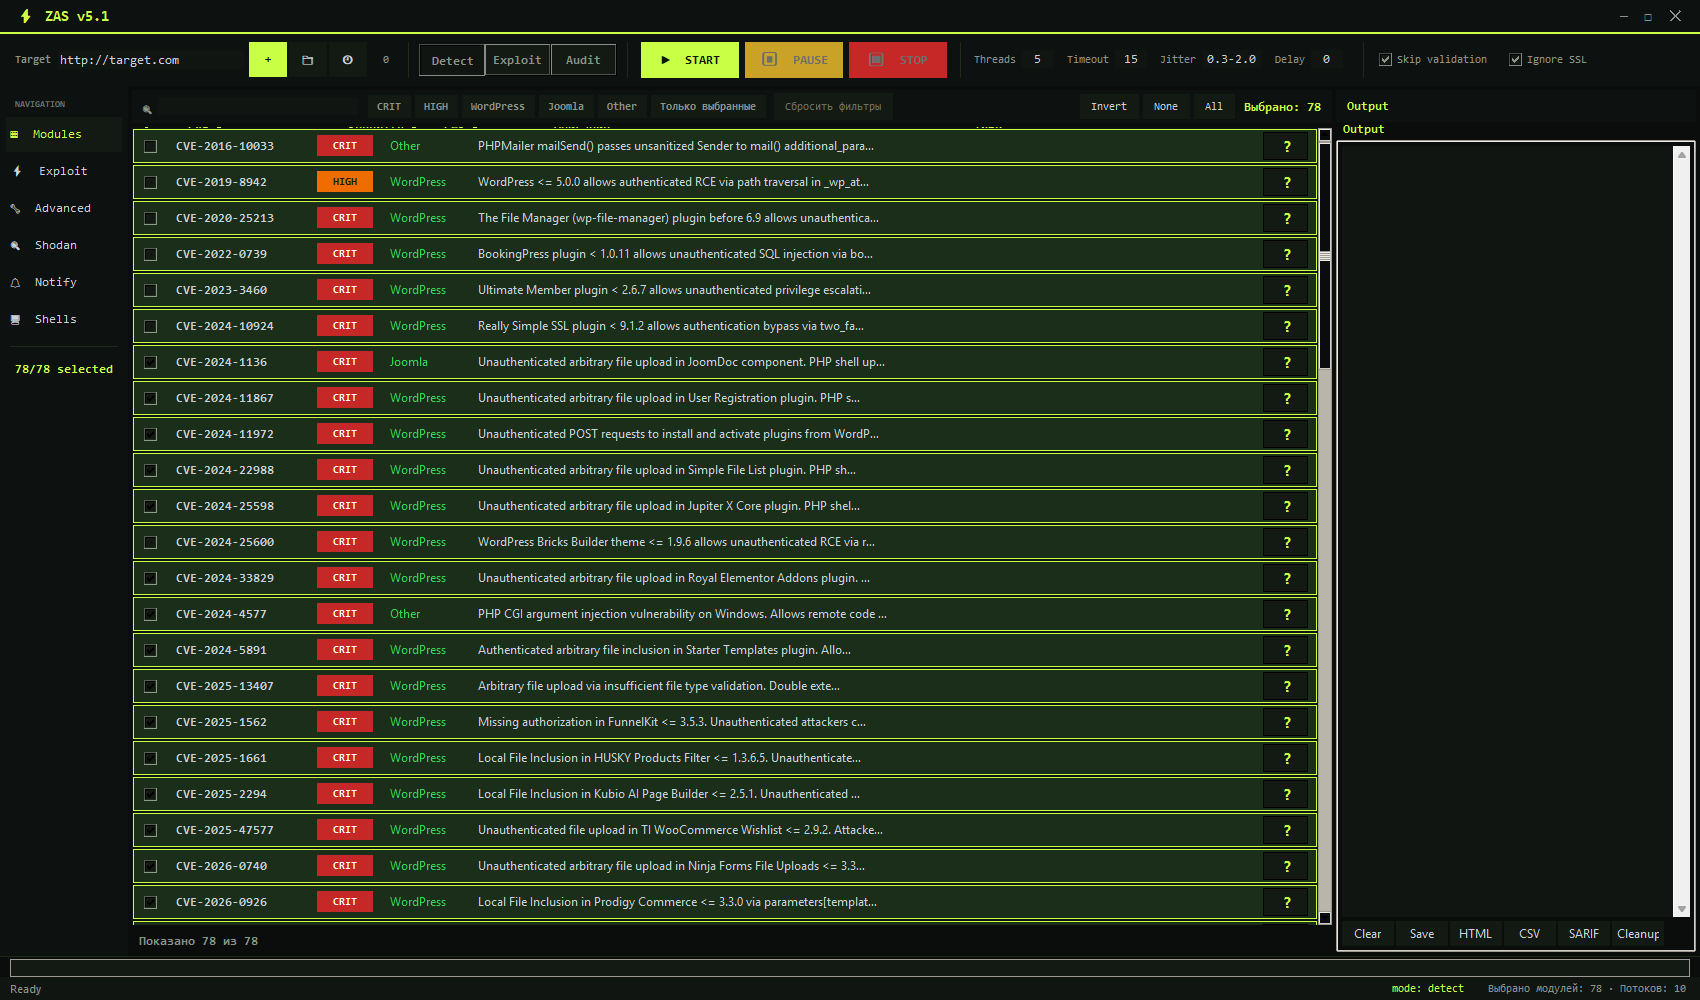
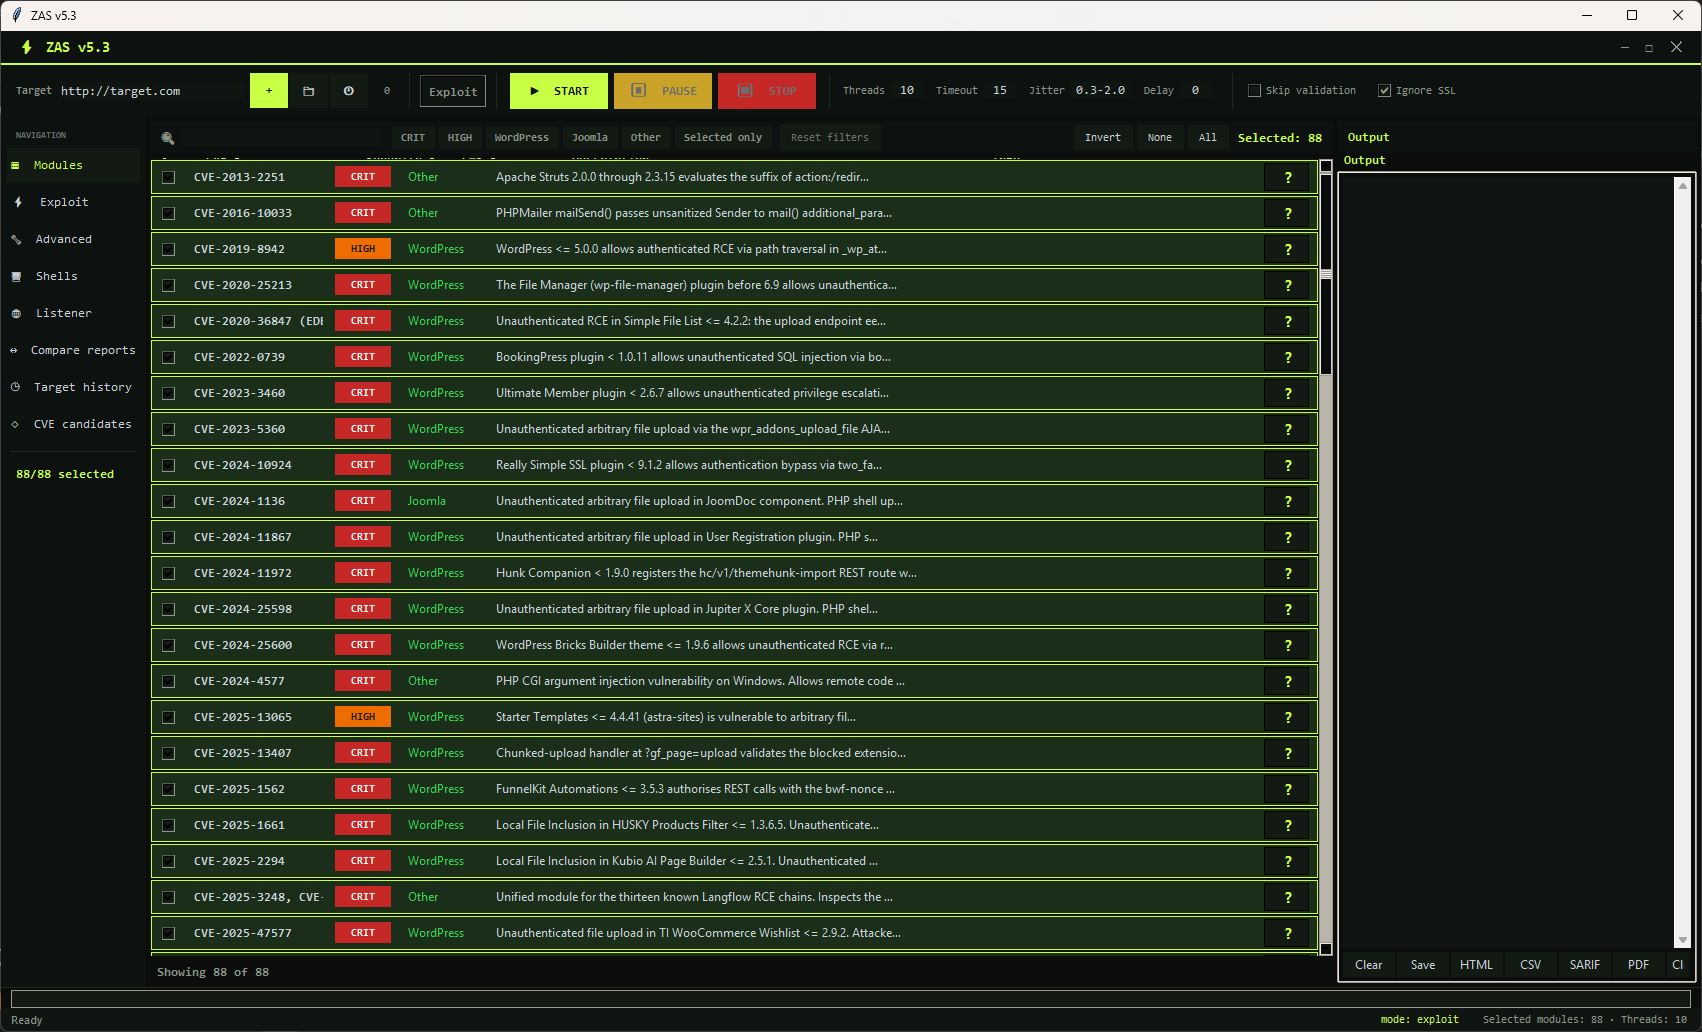
docs: refresh README screenshot for ZAS 5.3

Changed region(s): [[0.0, 0.0, 1.0, 1.0]]

diff --git a/README.md b/README.md
@@ -8,7 +8,7 @@ This package is the **runtime distribution**: GUI, exploit modules, and helper l
 
 > **This project is under active development.** See [Status and known limitations](#status-and-known-limitations) before relying on it — not everything here has been exercised against a live vulnerable target.
 
-![ZAS GUI](docs/zas_gui_screenshot.png)
+![ZAS v5.3 desktop interface](docs/zas_gui_screenshot.png)
 
 ---
 
